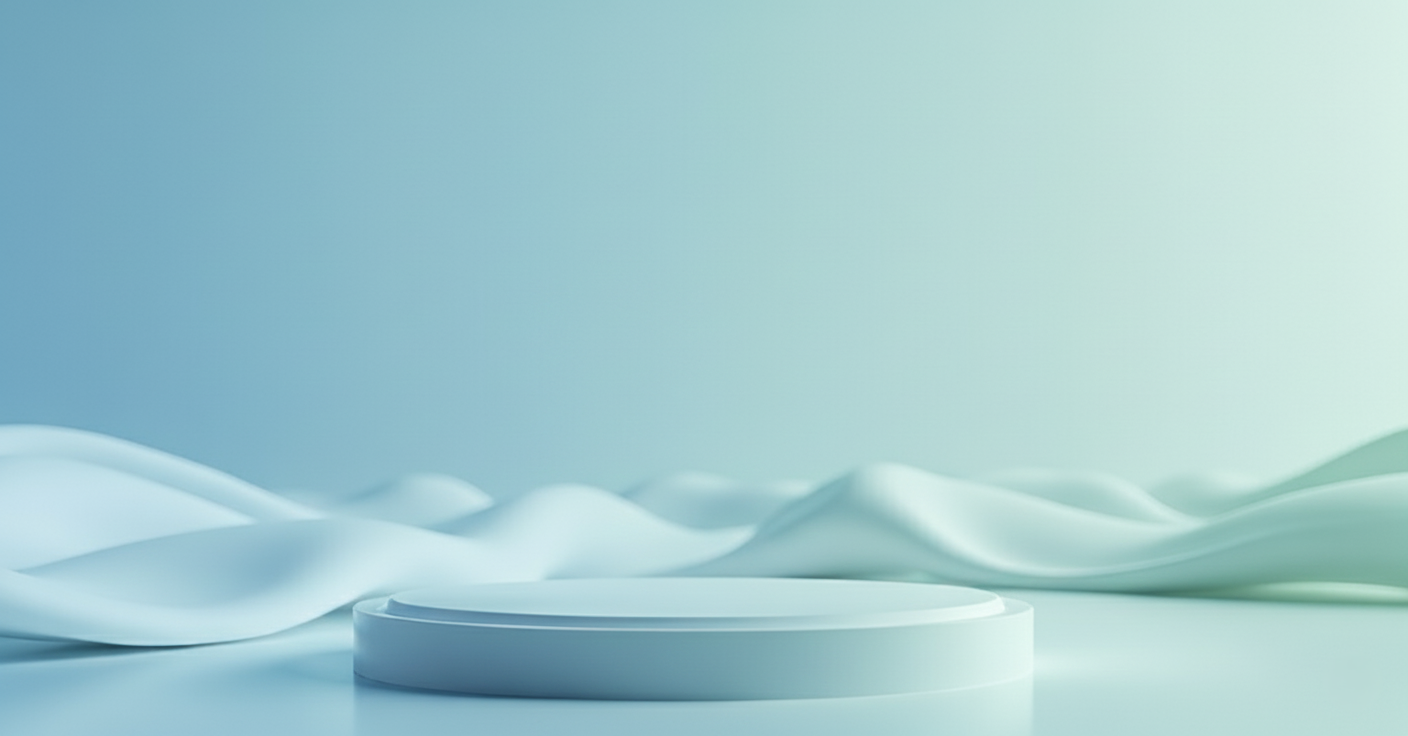
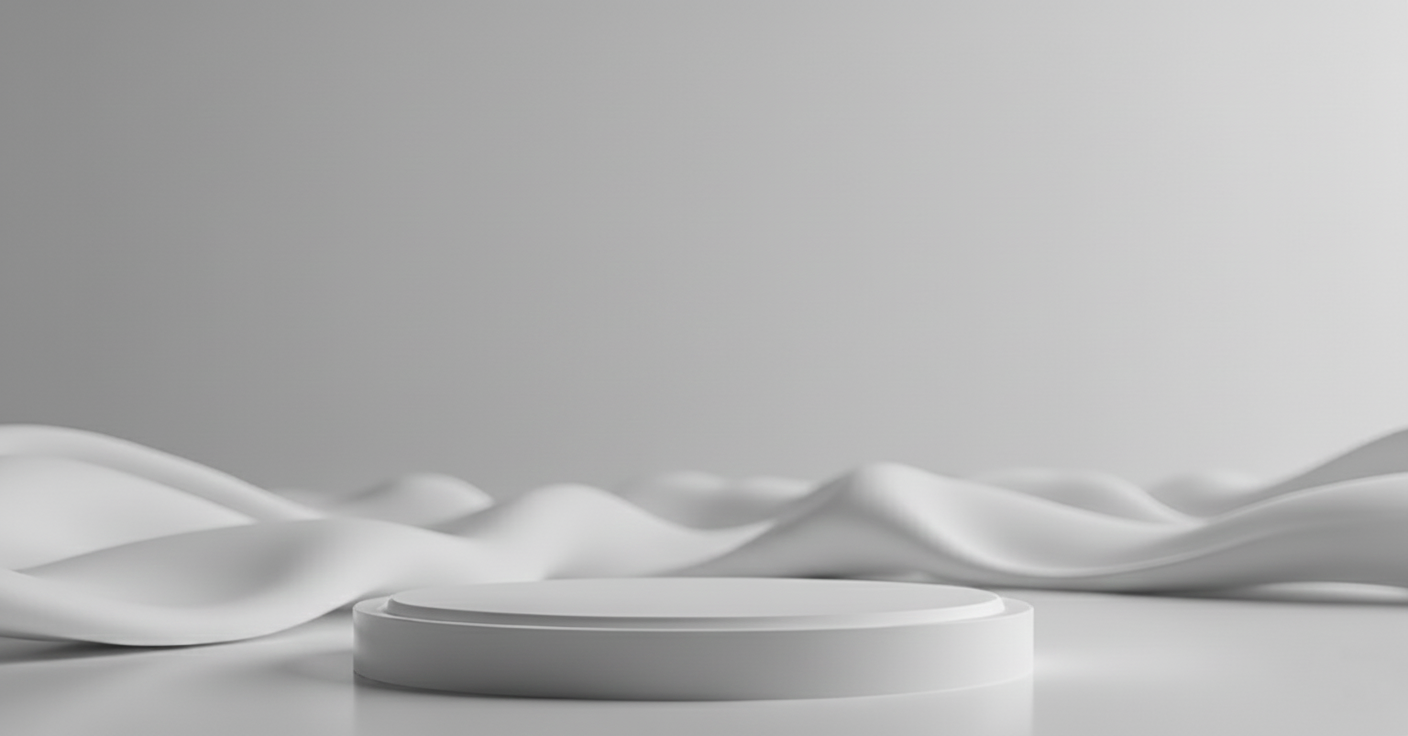
refactor(hero): make JS sole vertical controller; remove CSS top/bottom for .tooth and clear inline offsets3

diff --git a/src/app/page.tsx b/src/app/page.tsx
@@ -259,7 +259,10 @@ export default function HomePage() {
                   </div>
 
                   {/* Decorative Circle */}
-                  <div data-hero-circle className="absolute -z-10 top-1/2 left-1/2 -translate-x-1/2 -translate-y-1/2 w-[120%] h-[120%] bg-gradient-to-br from-blue-100/30 to-green-100/30 rounded-full blur-3xl"></div>
+                  <div
+                    data-hero-circle
+                    className="absolute -z-10 top-1/2 left-1/2 -translate-x-1/2 -translate-y-1/2 w-[120%] h-[120%] bg-gradient-to-br from-blue-100/30 to-green-100/30 rounded-full blur-3xl"
+                  ></div>
                 </div>
               </div>
             </div>
